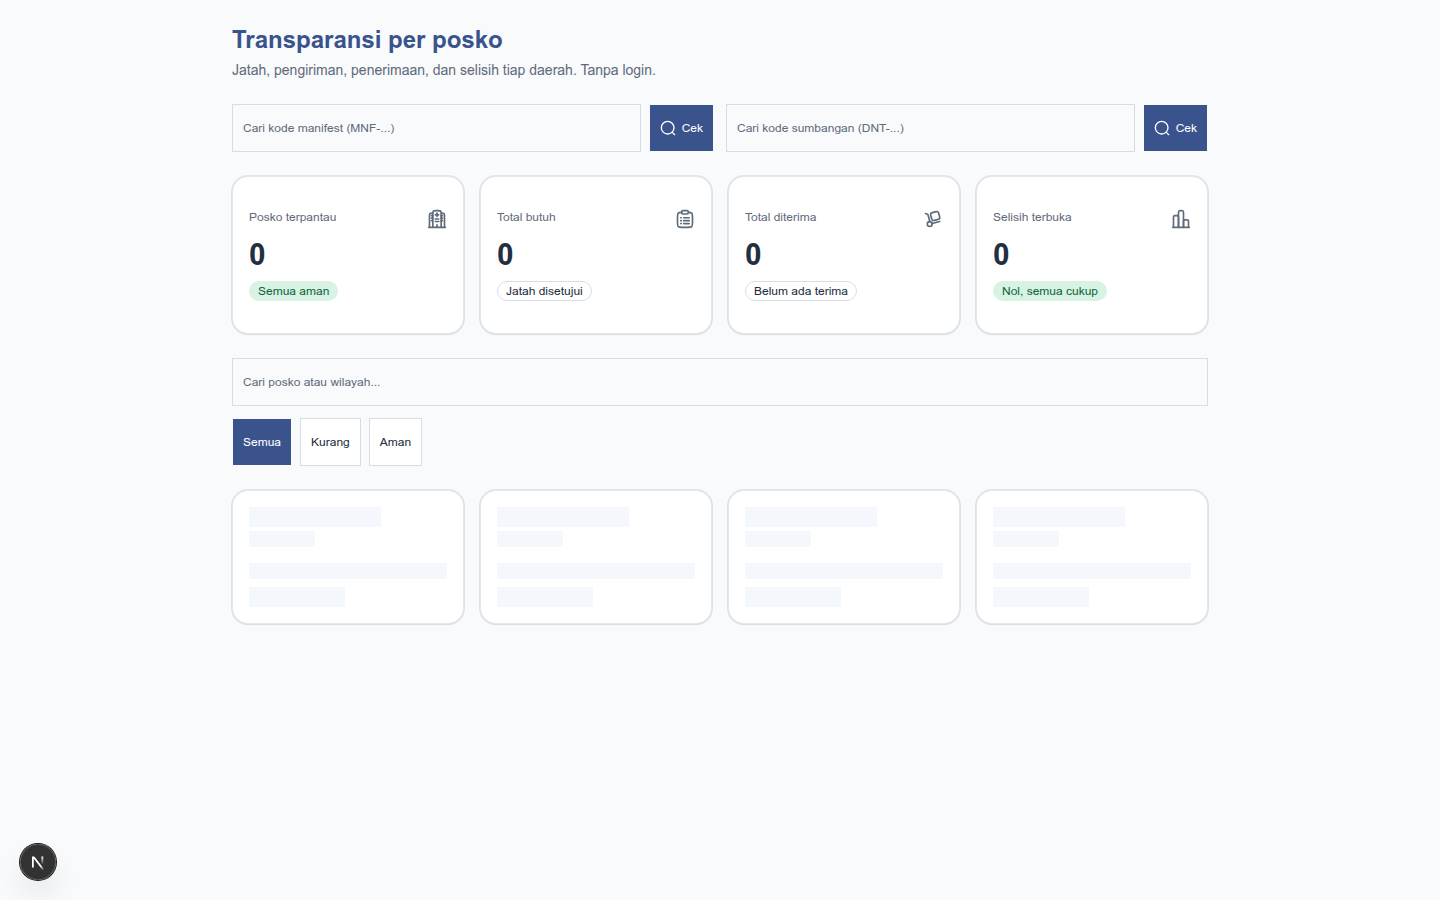
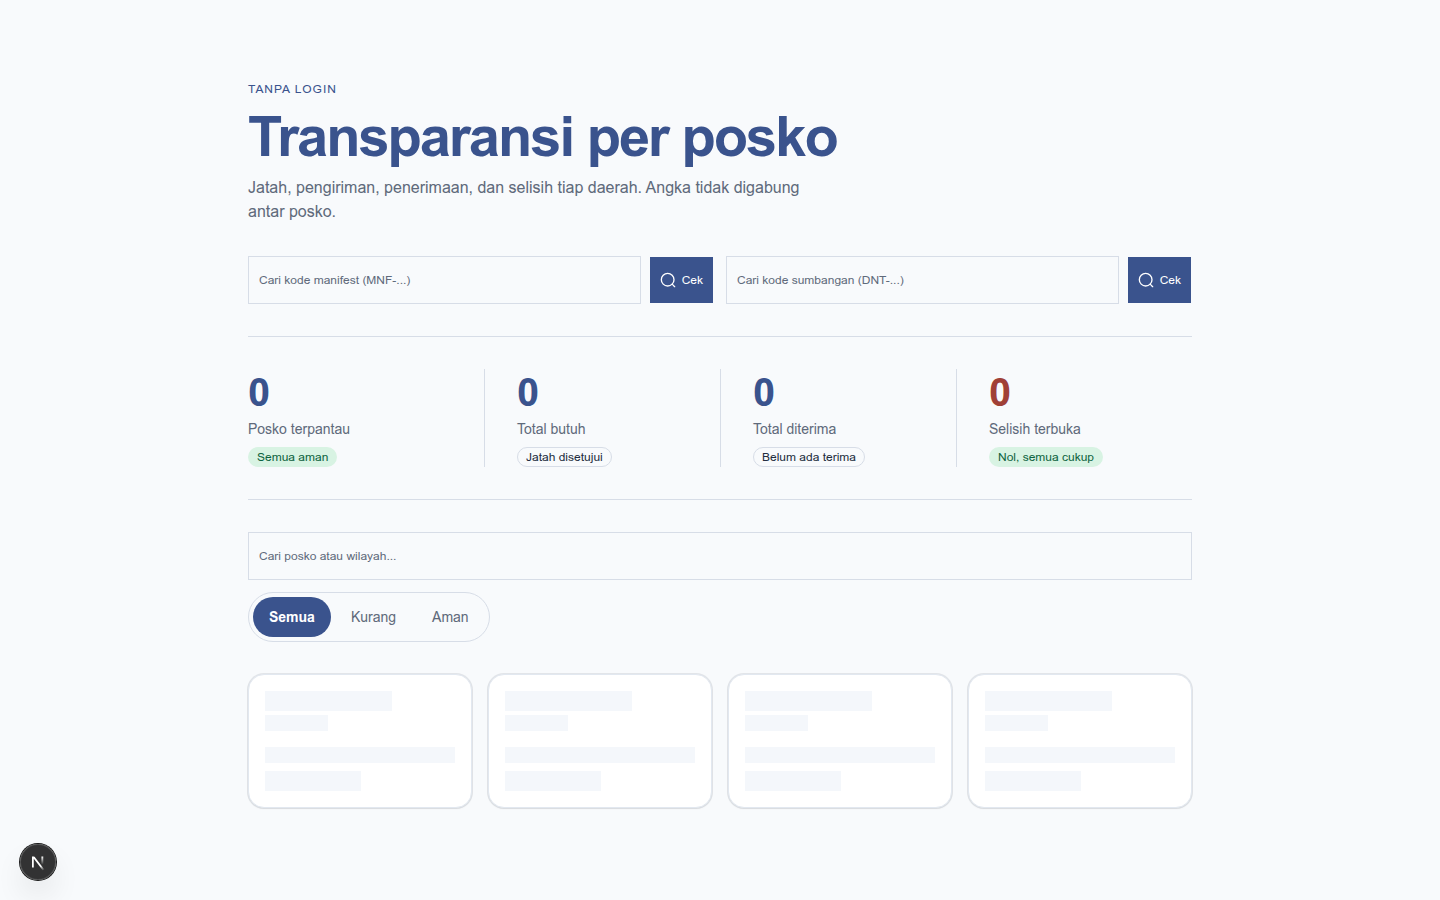
Rewrite /transparansi ke sistem editorial rre
- Header eyebrow + H1 besar, pita statistik hairline ganti 4 kartu
- Filter jadi segmented pill, daftar posko jadi baris editorial hairline
- Hapus ikon statistik tak terpakai; lint + check-types bersih

diff --git a/apps/web/src/app/transparansi/page.tsx b/apps/web/src/app/transparansi/page.tsx
@@ -2,23 +2,11 @@
 
 import { useCallback, useEffect, useMemo, useState } from "react";
 import Link from "next/link";
-import {
-  ChartIcon,
-  ClipboardListIcon,
-  DeliveryIcon,
-  HospitalIcon,
-  MagnifierIcon,
-} from "@solar-icons/react/linear";
+import { MagnifierIcon } from "@solar-icons/react/linear";
 import { Alert, AlertDescription, AlertTitle } from "@omnirelief/ui/components/alert";
 import { Badge } from "@omnirelief/ui/components/badge";
 import { Button } from "@omnirelief/ui/components/button";
-import {
-  Card,
-  CardContent,
-  CardDescription,
-  CardHeader,
-  CardTitle,
-} from "@omnirelief/ui/components/card";
+import { Card, CardContent, CardHeader } from "@omnirelief/ui/components/card";
 import {
   Empty,
   EmptyDescription,
@@ -113,11 +101,12 @@ export default function TransparansiPage() {
   }
 
   return (
-    <main className="mx-auto flex min-h-screen w-full max-w-6xl flex-col gap-6 p-6">
+    <main className="mx-auto flex min-h-screen w-full max-w-6xl flex-col gap-8 px-5 py-12 md:px-10 md:py-20">
       <div>
-        <h1 className="text-2xl font-bold text-primary">Transparansi per posko</h1>
-        <p className="text-muted-foreground mt-1 text-sm">
-          Jatah, pengiriman, penerimaan, dan selisih tiap daerah. Tanpa login.
+        <p className="t-micro text-primary">Tanpa login</p>
+        <h1 className="t-h1 t-balance mt-2 font-bold text-primary">Transparansi per posko</h1>
+        <p className="t-pretty mt-2 max-w-xl text-muted-foreground">
+          Jatah, pengiriman, penerimaan, dan selisih tiap daerah. Angka tidak digabung antar posko.
         </p>
       </div>
       <div className="grid gap-3 sm:grid-cols-2">
@@ -149,75 +138,44 @@ export default function TransparansiPage() {
         </form>
       </div>
 
-      <section aria-label="Ringkasan angka">
-        <div className="grid grid-cols-1 gap-4 sm:grid-cols-2 lg:grid-cols-4">
-          <Card className="bg-white rounded-xl border border-slate-200 shadow-xs">
-            <CardContent className="flex flex-col gap-2 p-4">
-              <div className="flex items-start justify-between gap-2">
-                <p className="text-xs text-muted-foreground">Posko terpantau</p>
-                <HospitalIcon aria-hidden="true" className="size-5 text-muted-foreground" />
-              </div>
-              <p className="text-3xl font-bold tracking-tight tabular-nums">{data.length}</p>
-              {ringkas.kurang > 0 ? (
-                <Badge variant="destructive" className="rounded-full">{ringkas.kurang} kurang</Badge>
-              ) : (
-                <Badge
-                  variant="outline"
-                  className="rounded-full border-transparent bg-success-bg text-success-badge-fg"
-                >
-                  Semua aman
-                </Badge>
-              )}
-            </CardContent>
-          </Card>
-          <Card className="bg-white rounded-xl border border-slate-200 shadow-xs">
-            <CardContent className="flex flex-col gap-2 p-4">
-              <div className="flex items-start justify-between gap-2">
-                <p className="text-xs text-muted-foreground">Total butuh</p>
-                <ClipboardListIcon aria-hidden="true" className="size-5 text-muted-foreground" />
-              </div>
-              <p className="text-3xl font-bold tracking-tight tabular-nums">{ringkas.totalButuh}</p>
-              <Badge variant="outline" className="rounded-full">Jatah disetujui</Badge>
-            </CardContent>
-          </Card>
-          <Card className="bg-white rounded-xl border border-slate-200 shadow-xs">
-            <CardContent className="flex flex-col gap-2 p-4">
-              <div className="flex items-start justify-between gap-2">
-                <p className="text-xs text-muted-foreground">Total diterima</p>
-                <DeliveryIcon aria-hidden="true" className="size-5 text-muted-foreground" />
-              </div>
-              <p className="text-3xl font-bold tracking-tight tabular-nums">{ringkas.totalDiterima}</p>
-              {ringkas.totalDiterima > 0 ? (
-                <Badge
-                  variant="outline"
-                  className="rounded-full border-transparent bg-success-bg text-success-badge-fg"
-                >
-                  Konfirmasi terima
-                </Badge>
-              ) : (
-                <Badge variant="outline" className="rounded-full">Belum ada terima</Badge>
-              )}
-            </CardContent>
-          </Card>
-          <Card className="bg-white rounded-xl border border-slate-200 shadow-xs">
-            <CardContent className="flex flex-col gap-2 p-4">
-              <div className="flex items-start justify-between gap-2">
-                <p className="text-xs text-muted-foreground">Selisih terbuka</p>
-                <ChartIcon aria-hidden="true" className="size-5 text-muted-foreground" />
-              </div>
-              <p className="text-3xl font-bold tracking-tight tabular-nums">{ringkas.selisihTerbuka}</p>
-              {ringkas.selisihTerbuka > 0 ? (
-                <Badge variant="destructive" className="rounded-full">Perlu kirim</Badge>
-              ) : (
-                <Badge
-                  variant="outline"
-                  className="rounded-full border-transparent bg-success-bg text-success-badge-fg"
-                >
-                  Nol, semua cukup
-                </Badge>
-              )}
-            </CardContent>
-          </Card>
+      <section aria-label="Ringkasan angka" className="grid grid-cols-2 gap-y-8 border-y border-border py-8 lg:grid-cols-4">
+        <div className="flex flex-col gap-1 pr-4 md:pr-8">
+          <span className="t-h2 t-angka font-bold text-primary tabular-nums">{data.length}</span>
+          <span className="text-xs text-muted-foreground md:text-sm">Posko terpantau</span>
+          {ringkas.kurang > 0 ? (
+            <Badge variant="destructive" className="mt-1 w-fit rounded-full">{ringkas.kurang} kurang</Badge>
+          ) : (
+            <Badge variant="outline" className="mt-1 w-fit rounded-full border-transparent bg-success-bg text-success-badge-fg">
+              Semua aman
+            </Badge>
+          )}
+        </div>
+        <div className="flex flex-col gap-1 pr-4 md:pr-8 lg:border-l lg:border-border lg:pl-8">
+          <span className="t-h2 t-angka font-bold text-primary tabular-nums">{ringkas.totalButuh}</span>
+          <span className="text-xs text-muted-foreground md:text-sm">Total butuh</span>
+          <Badge variant="outline" className="mt-1 w-fit rounded-full">Jatah disetujui</Badge>
+        </div>
+        <div className="flex flex-col gap-1 pr-4 md:pr-8 lg:border-l lg:border-border lg:pl-8">
+          <span className="t-h2 t-angka font-bold text-primary tabular-nums">{ringkas.totalDiterima}</span>
+          <span className="text-xs text-muted-foreground md:text-sm">Total diterima</span>
+          {ringkas.totalDiterima > 0 ? (
+            <Badge variant="outline" className="mt-1 w-fit rounded-full border-transparent bg-success-bg text-success-badge-fg">
+              Konfirmasi terima
+            </Badge>
+          ) : (
+            <Badge variant="outline" className="mt-1 w-fit rounded-full">Belum ada terima</Badge>
+          )}
+        </div>
+        <div className="flex flex-col gap-1 lg:border-l lg:border-border lg:pl-8">
+          <span className="t-h2 t-angka font-bold text-destructive tabular-nums">{ringkas.selisihTerbuka}</span>
+          <span className="text-xs text-muted-foreground md:text-sm">Selisih terbuka</span>
+          {ringkas.selisihTerbuka > 0 ? (
+            <Badge variant="destructive" className="mt-1 w-fit rounded-full">Perlu kirim</Badge>
+          ) : (
+            <Badge variant="outline" className="mt-1 w-fit rounded-full border-transparent bg-success-bg text-success-badge-fg">
+              Nol, semua cukup
+            </Badge>
+          )}
         </div>
       </section>
 
@@ -232,43 +190,34 @@ export default function TransparansiPage() {
             className="min-h-12 flex-1"
           />
         </div>
-        <div className="flex flex-wrap items-center gap-2" role="group" aria-label="Saring status selisih">
-          <Button
-            type="button"
-            variant={filterStatus === "semua" ? "default" : "outline"}
-            onClick={() => setFilterStatus("semua")}
-            aria-pressed={filterStatus === "semua"}
-            className="min-h-12"
-          >
-            Semua
-          </Button>
-          <Button
-            type="button"
-            variant={filterStatus === "kurang" ? "default" : "outline"}
-            onClick={() => setFilterStatus("kurang")}
-            aria-pressed={filterStatus === "kurang"}
-            className="min-h-12"
-          >
-            Kurang
-          </Button>
-          <Button
-            type="button"
-            variant={filterStatus === "aman" ? "default" : "outline"}
-            onClick={() => setFilterStatus("aman")}
-            aria-pressed={filterStatus === "aman"}
-            className="min-h-12"
-          >
-            Aman
-          </Button>
+        <div className="flex flex-wrap items-center gap-3">
+          <div className="flex items-center gap-1 rounded-full border border-border p-1" role="group" aria-label="Saring status selisih">
+            {(
+              [
+                { nilai: "semua", label: "Semua" },
+                { nilai: "kurang", label: "Kurang" },
+                { nilai: "aman", label: "Aman" },
+              ] as const
+            ).map((o) => (
+              <button
+                key={o.nilai}
+                type="button"
+                onClick={() => setFilterStatus(o.nilai)}
+                aria-pressed={filterStatus === o.nilai}
+                className={
+                  filterStatus === o.nilai
+                    ? "min-h-10 rounded-full bg-primary px-4 text-sm font-semibold text-primary-foreground"
+                    : "min-h-10 rounded-full px-4 text-sm text-muted-foreground hover:text-foreground"
+                }
+              >
+                {o.label}
+              </button>
+            ))}
+          </div>
           {adaFilter && (
-            <Button
-              type="button"
-              variant="ghost"
-              onClick={aturUlang}
-              className="min-h-12"
-            >
+            <button type="button" onClick={aturUlang} className="min-h-12 text-sm underline">
               Atur ulang
-            </Button>
+            </button>
           )}
         </div>
         {status === "siap" && (
@@ -330,61 +279,53 @@ export default function TransparansiPage() {
       )}
       {status === "siap" && tampil.length > 0 && (
         <section aria-label="Stok per posko">
-          <Card className="bg-white rounded-xl border border-slate-200 shadow-xs">
-            <CardHeader>
-              <CardTitle>Stok per posko</CardTitle>
-              <CardDescription>
-                Diterima dibanding butuh, per posko. Angka tidak digabung antar posko.
-              </CardDescription>
-            </CardHeader>
-            <CardContent>
-              <ul className="flex flex-col">
-                {tampil.map((p) => {
-                  const persen = persenTerima(p.butuh, p.diterima);
-                  const kurang = p.selisih > 0;
-                  return (
-                    <li
-                      key={p.posko_id}
-                      className="flex flex-col gap-2 border-t border-slate-200 py-4 first:border-t-0 first:pt-0 last:pb-0"
-                    >
-                      <div className="flex items-center justify-between gap-2">
-                        <div className="min-w-0">
-                          <p className="text-sm font-semibold break-words">{p.posko_nama}</p>
-                          <p className="text-xs text-muted-foreground">{p.wilayah}</p>
-                        </div>
-                        {kurang ? (
-                          <Badge variant="destructive" className="rounded-full">Kurang {p.selisih}</Badge>
-                        ) : (
-                          <Badge
-                            variant="outline"
-                            className="rounded-full border-transparent bg-success-bg text-success-badge-fg"
-                          >
-                            Aman
-                          </Badge>
-                        )}
-                      </div>
-                      <div
-                        role="progressbar"
-                        aria-valuenow={persen}
-                        aria-valuemin={0}
-                        aria-valuemax={100}
-                        aria-label={`Penerimaan ${p.posko_nama}`}
-                        className="h-2 w-full overflow-hidden rounded-full bg-slate-100"
+          <p className="t-micro text-primary">Stok per posko</p>
+          <h2 className="t-h2 t-balance mt-2 font-bold text-primary">Diterima dibanding butuh</h2>
+          <ul className="mt-6 flex flex-col border-t border-border">
+            {tampil.map((p) => {
+              const persen = persenTerima(p.butuh, p.diterima);
+              const kurang = p.selisih > 0;
+              return (
+                <li
+                  key={p.posko_id}
+                  className="flex flex-col gap-3 border-b border-border py-6"
+                >
+                  <div className="flex items-start justify-between gap-3">
+                    <div className="min-w-0">
+                      <p className="t-micro text-muted-foreground">{p.wilayah}</p>
+                      <p className="mt-1 text-lg font-semibold break-words">{p.posko_nama}</p>
+                    </div>
+                    {kurang ? (
+                      <Badge variant="destructive" className="shrink-0 rounded-full">Kurang {p.selisih}</Badge>
+                    ) : (
+                      <Badge
+                        variant="outline"
+                        className="shrink-0 rounded-full border-transparent bg-success-bg text-success-badge-fg"
                       >
-                        <div
-                          className={kurang ? "h-full rounded-full bg-destructive" : "h-full rounded-full bg-success"}
-                          style={{ width: `${persen}%` }}
-                        />
-                      </div>
-                      <p className="text-xs text-muted-foreground tabular-nums">
-                        Diterima {p.diterima} dari butuh {p.butuh} ({persen}%) · Dikirim {p.dikirim}
-                      </p>
-                    </li>
-                  );
-                })}
-              </ul>
-            </CardContent>
-          </Card>
+                        Aman
+                      </Badge>
+                    )}
+                  </div>
+                  <div
+                    role="progressbar"
+                    aria-valuenow={persen}
+                    aria-valuemin={0}
+                    aria-valuemax={100}
+                    aria-label={`Penerimaan ${p.posko_nama}`}
+                    className="h-2 w-full overflow-hidden rounded-full bg-muted"
+                  >
+                    <div
+                      className={kurang ? "h-full rounded-full bg-destructive" : "h-full rounded-full bg-success"}
+                      style={{ width: `${persen}%` }}
+                    />
+                  </div>
+                  <p className="t-angka text-sm text-muted-foreground tabular-nums">
+                    Diterima {p.diterima} dari butuh {p.butuh} ({persen}%) · Dikirim {p.dikirim}
+                  </p>
+                </li>
+              );
+            })}
+          </ul>
         </section>
       )}
     </main>

diff --git a/apps/web/src/app/page.tsx b/apps/web/src/app/page.tsx
@@ -75,6 +75,7 @@ export default function Home() {
       .then((r) => r.json())
       .then((d: { ok: boolean; dashboard?: Baris[] }) => {
         if (d.ok && d.dashboard) {
+          setTotalPosko(d.dashboard.length);
           setTotalDiterima(d.dashboard.reduce((s, p) => s + p.diterima, 0));
           setTotalSelisih(d.dashboard.reduce((s, p) => s + p.selisih, 0));
         }
